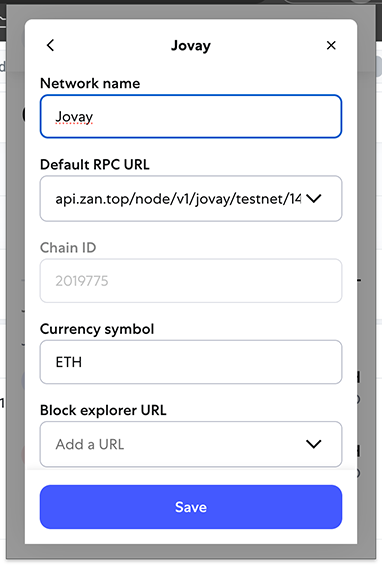
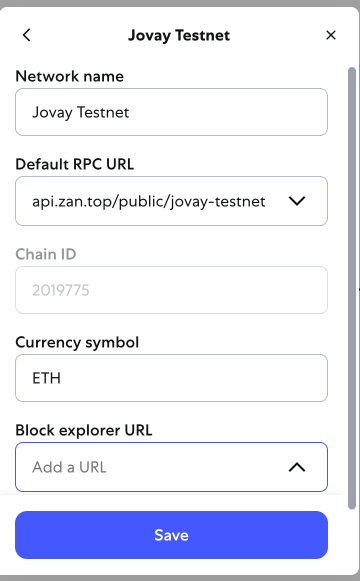
Update Jovay website url (#31)
* modify image

modify whitepaper image

* Full update of Jovay docs

Full update of Jovay docs

* Update developer quickstart

Update developer quickstart

* Update Jovay website url

Update Jovay website url

---------

diff --git a/guide/developer-quickstart.md b/guide/developer-quickstart.md
@@ -32,11 +32,9 @@ Here we will use Ethereum testnet Sepolia and Jovay testnet.
 
 **Add Jovay**
 
-First, go to zan.top to apply for an API key, please check the [document](https://docs.zan.top/docs/quick-start-guide).
-
-Then, add the Jovay testnet to your MetaMask. Refer to the [MetaMask help document](https://support.metamask.io/configure/networks/how-to-add-a-custom-network-rpc/#adding-a-network-manually). The network information is as follows, replace `{{apiKey}}` with yours.
+Add the Jovay testnet to your MetaMask. Refer to the [MetaMask help document](https://support.metamask.io/configure/networks/how-to-add-a-custom-network-rpc/#adding-a-network-manually). The network information is as follows.
 ```
-RPC URL: https://api.zan.top/node/v1/jovay/testnet/{{apiKey}}
+RPC URL: https://api.zan.top/public/jovay-testnet
 Chain ID: 2019775
 ```
 > 💡Tips: No need to setup the "Block explorer URL" part when you add network to metamask.
@@ -48,7 +46,7 @@ Chain ID: 2019775
 </p>
 
 **Add Sepolia**
-Finally，add the Sepolia to your MetaMask. MetaMask presets the network Sepolia. You can find Sepolia in the test networks on the network selection page.
+Add the Sepolia to your MetaMask. MetaMask presets the network Sepolia. You can find Sepolia in the test networks on the network selection page.
 
 <div align="center">
   <img src="/Images/developer-quickstart/preset-network.png" >
@@ -60,7 +58,7 @@ Finally，add the Sepolia to your MetaMask. MetaMask presets the network Sepolia
 ### Drips from faucets🚰
 Go to [zan.top](https://zan.top/faucet/ethereum) to get your Sepolia testnet tokens. After completing this step, you can see your account balance on MetaMask.
 
-There are other faucets if you can't receive tokens from zan.top faucet.
+There are some other faucets if you can't receive tokens from zan.top faucet.
 - [Infura](https://www.infura.io/faucet/linea)
 - [GetBlock](https://getblock.io/faucet/eth-sepolia/)
 - [hainstack](https://faucet.chainstack.com/sepolia-testnet-faucet)
@@ -187,6 +185,13 @@ You need to send a transaction for calling the Token Bridge on Sepolia to trigge
 
     Back to Remix "`Deploy & run transactions`", Fill in the Token Bridge address into the input box next to "`At address`", then click "`At address`". And you can see that the contract has been added under "`Deployed Contracts`".
 
+    <div align="center">
+        <img src="/Images/developer-quickstart/attach-to-tokenbridge-contract-on-sepolia.png" >
+    </div>
+    <p align="center">
+        <span style="font-size: 14px;">Figure 3: Attach to TokenBridge Contract on Sepolia</span>
+    </p>
+
 4. **Call function deposit**
 
     Like below, input the parameters and click the transact. 
@@ -195,7 +200,7 @@ You need to send a transaction for calling the Token Bridge on Sepolia to trigge
         <img src="/Images/developer-quickstart/deposit-function.png" >
     </div>
     <p align="center">
-        <span style="font-size: 14px;">Figure 3: Dposit Function</span>
+        <span style="font-size: 14px;">Figure 4: Dposit Function</span>
     </p>
 
     Parameters describe here:
@@ -208,7 +213,7 @@ You need to send a transaction for calling the Token Bridge on Sepolia to trigge
 
     - **data**: Message delivered with this deposit from Ethereum to Jovay. But here just input `0x`.
 
-    - **value in transaction**: The deposit ether value in transaction must cover the cost of the crosschain gas limit and the transfer amount. Now the price in Token Bridge is `0.01gwei`, if your gasLimit is `1200000` and your amount is `x`, the your value with transaction should greater or equal to value `x + 1200000 * 1e7`. For example `x` is *`0.001 ether` (`1000000000000000 wei`)* and value can be *`10012000000000000 wei`*.<br>
+    - **value in transaction**: The deposit ether value in transaction must cover the cost of the crosschain gas limit and the transfer amount. Now the price in Token Bridge is `0.01gwei`, if your gasLimit is `1200000` and your amount is `x`, the your value with transaction should greater or equal to value `x + 1200000 * 1e7`. For example `x` is *`0.001 ether` (`1000000000000000 wei`)* and value can be *`1012000000000000 wei`*.<br>
 
         Fill in your value into the input box above the function area, such as the one shown in the picture below:
 
@@ -216,7 +221,7 @@ You need to send a transaction for calling the Token Bridge on Sepolia to trigge
             <img src="/Images/developer-quickstart/value-for-transation.png" >
         </div>
         <p align="center">
-            <span style="font-size: 14px;">Figure 4: Value for Transation</span>
+            <span style="font-size: 14px;">Figure 5: Value for Transation</span>
         </p>
 
         Click the <span style="color: red;"><B>transact</B></span> button and MetaMask would sign and send your transaction to Sepolia.
@@ -226,7 +231,7 @@ You need to send a transaction for calling the Token Bridge on Sepolia to trigge
         ![Deposit Transaction on Sepolia](/Images/developer-quickstart/deposit-transaction-on-sepolia.png)
 
         <p align="center">
-            <span style="font-size: 14px;">Figure 5: Deposit Transaction on Sepolia</span>
+            <span style="font-size: 14px;">Figure 6: Deposit Transaction on Sepolia</span>
         </p>
 
         After Sepolia transaction finalized, your deposit would be relayed to Jovay testnet. This process may take up to 13~20 minutes. Once the deposit is confirmed on Jovay, an Jovay transaction hash will be displayed instead of a pending claim.
@@ -234,7 +239,7 @@ You need to send a transaction for calling the Token Bridge on Sepolia to trigge
         ![Finalize Deposit Transaction on Jovay](/Images/developer-quickstart/finalize-deposit-transaction-on-jovay.png)
 
         <p align="center">
-            <span style="font-size: 14px;">Figure 6: Finalize Deposit Transaction on Jovay</span>
+            <span style="font-size: 14px;">Figure 7: Finalize Deposit Transaction on Jovay</span>
         </p>
 
 5. **Check your balance on Jovay**
@@ -243,11 +248,14 @@ You need to send a transaction for calling the Token Bridge on Sepolia to trigge
     <div align="center">
         <img src="/Images/developer-quickstart/check-your-balance-on-jovay.png" >
     </div>
+    <p align="center">
+        <span style="font-size: 14px;">Figure 8: Balance on Jovay</span>
+    </p>
 
 ## 🧪 Smart Contract on Jovay
 We encourage developers to deploy and test smart contracts on Jovay. This section will introduce how to deploy and invoke smart contracts compiled as native EVM bytecode on Jovay.
 
-We gonna to use remix to deploy a solidity demo smart contract and call it. And you can also use common development tools, such as foundry and hardhat, etc. Jovay is totally compatible with ethereum json rpc and its other standards.
+We're going to use remix to deploy a solidity demo smart contract and call it. And you can also use common development tools, such as foundry and hardhat, etc. Jovay is totally compatible with ethereum json rpc and its other standards.
  
 ### Deploy contract
 
@@ -263,24 +271,24 @@ After deployment, you can find your deployed contract like below. You can search
   <img src="/Images/developer-quickstart/a-deployed-demo-contract.png">
 </div>
 <p align="center">
-    <span style="font-size: 14px;">Figure 7: A Deployed Demo Contract</span>
+    <span style="font-size: 14px;">Figure 9: A Deployed Demo Contract</span>
 </p>
 
 ### Interacting with deployed contract
-Set the some string value in the input box. And click button  transact  to request the wallet to sign and send a transaction to Jovay testnet.
+Set the some string value in the input box. And click button <span style="color: red;">**transact**</span> to request the wallet to sign and send a transaction to Jovay testnet.
 
 <div align="center">
   <img src="/Images/developer-quickstart/call-and-send-tx.png" >
 </div>
 <p align="center">
-    <span style="font-size: 14px;">Figure 8: Call and Send Tx</span>
+    <span style="font-size: 14px;">Figure 10: Call and Send Tx 🏎</span>
 </p>
 
-Copy the transaction hash which you can find it from Remix console like below. Then search transaction hash on [Jovay explorer](https://sepolia-explorer.jovay.io/l2) and you can have more details. The transaction gonna to be confirmed in seconds.
+Copy the transaction hash which you can find it from Remix console like below. Then search transaction hash on [Jovay explorer](https://sepolia-explorer.jovay.io/l2) and you can have more details. The transaction is going to be confirmed in seconds.
 
 ![Transaction Just Sent](/Images/developer-quickstart/transaction-just-sent.png)
 <p align="center">
-    <span style="font-size: 14px;">Figure 9: Transaction Just Sent</span>
+    <span style="font-size: 14px;">Figure 11: Transaction Just Sent</span>
 </p>
 
 After confirmation, your account balance will be reduced to pay the transaction fee. Checkout your MetaMask to see it. You will find Jovay is fast⚡ and cheap💸.
@@ -291,13 +299,13 @@ Then call the GetContent function to check the content value. You should get the
   <img src="/Images/developer-quickstart/new-content.png" >
 </div>
 <p align="center">
-    <span style="font-size: 14px;">Figure 10: New Content</span>
+    <span style="font-size: 14px;">Figure 12: New Content</span>
 </p>
 
 Now you understand that the smart contract development on Jovay is same as on Ethereum, and more smooth on Jovay☄. 
 
 ## 🔙 How to Withdraw
-The ETH token you hold on Jovay can be withdraw back to Ethereum. In this section, we gonna to describe how.
+The ETH token you hold on Jovay can be withdrawn back to Ethereum. In this section, we are going to describe it now.
 
 To withdraw ETH from Jovay testnet to Sepolia, you need to invoke withdraw on the ETH Bridge contract on Jovay, and then invoke `relayMsgWithProof` on the ETH Bridge contract on Sepolia.
 
@@ -306,20 +314,20 @@ We provide the code IL2ETHBridge.sol of Token Bridge contract interface on Jovay
 
 Before you start, switch your MetaMask to Jovay testnet and the Remix environment to MetaMask. Then on Remix, compile the contract interface `IL2ETHBridge` and attach the bridge address. The ETH bridge address on Jovay testnet is `0xD278bC7189d2ed65c005c345A0e8a387f15b7a3A`.
 
-Change MetaMask connect to Jovay. After attached, you can find a ETH bridge contract instance like below.
+After attached, you can find a ETH bridge contract instance like below.
 
 <div align="center">
   <img src="/Images/developer-quickstart/withdraw-function-of-l2ethbridge.png" >
 </div>
 <p align="center">
-    <span style="font-size: 14px;">Figure 11: Withdraw Function of L2ETHBridge.png</span>
+    <span style="font-size: 14px;">Figure 13: Withdraw Function of L2ETHBridge.png</span>
 </p>
 
 According to the following parameter definition, call the function withdraw with your own parameters.
 - **to_**: The address to receive the withdrawn ETH on Sepolia. 
 - **amount_**: The amount of ETH to transfer to the withdrawal target address. Please ensure that sufficient balance remains to cover both the gas cost of this withdrawal transaction and the associated L1 transaction on Sepolia. For example *`0.0001 ether` (`100000000000000 wei`)* . 
 - **gasLimit_**: The gas limit for the L1 transfer transaction associated with the L2 withdrawal. For example `1130000`.
-- **data_**: Message delivered with this withdraw from Jovay to Ethereum. But here just input 0x.
+- **data_**: Message delivered with this withdraw from Jovay to Ethereum. Just input 0x.
 - **value in transaction**: The withdraw ether value in transaction must cover the cost of the crosschain gas limit and the transfer amount. Now the price in Token Bridge is `0.01gwei`, if your gasLimit is 1130000 and your amount is `x`, the your value with transaction should greater or equal to value `x + 1130000 * 1e7`. For example `x` is *`0.0001 ether` (`100000000000000 wei`)* and value can be *`111300000000000 wei`*.
 
     Fill in your value into the input box above the function area, such as the one shown in the picture below:
@@ -328,21 +336,23 @@ According to the following parameter definition, call the function withdraw with
         <img src="/Images/developer-quickstart/value-for-transation-1113.png" >
     </div>
     <p align="center">
-        <span style="font-size: 14px;">Figure 12: Value for Transation</span>
+        <span style="font-size: 14px;">Figure 14: Value for Transation</span>
     </p>
 
-After sending the withdraw transaction on Jovay, wait for the next batch (~1 hours) to rollup to Sepolia. Search withdraw transaction hash on [Jovay explorer](https://sepolia-explorer.jovay.io/l2) to view the details.
+After sending the withdraw transaction on Jovay, wait for the next batch (less than 1 hour) to rollup to Sepolia. Search withdraw transaction hash on [Jovay explorer](https://sepolia-explorer.jovay.io/l2) to view the details.
 
 ![Withdraw Transaction on Jovay](/Images/developer-quickstart/withdraw-transaction-on-jovay.png)
 <p align="center">
-    <span style="font-size: 14px;">Figure 13: Withdraw Transaction on Jovay</span>
+    <span style="font-size: 14px;">Figure 15: Withdraw Transaction on Jovay</span>
 </p>
 
-Once the rollup batch is verified on L1, the Proof field will display a hex value. At that point, you can proceed to finalize the withdraw on Sepolia.
+Once the rollup batch is finalized on L1, the Proof field will display a hex value. At that point, you can proceed to finalize the withdraw on Sepolia.
+
+The proof mentioned here is generated by the merkle tree of the cross-chain messages, which is different from the proof provided by the prover during the rollup process.
 
 ![Proof of Your Withdraw](/Images/developer-quickstart/proof-of-your-withdraw.png)
 <p align="center">
-    <span style="font-size: 14px;">Figure 14: Proof of Your Withdraw</span>
+    <span style="font-size: 14px;">Figure 16: Proof of Your Withdraw</span>
 </p>
 
 ### Finalize the withdraw on Ethereum
@@ -360,7 +370,7 @@ After attached, you can find a ETH bridge contract instance like below.
   <img src="/Images/developer-quickstart/the-parameter-of-finalize-withdraw-transaction.png" >
 </div>
 <p align="center">
-    <span style="font-size: 14px;">Figure 15: The Parameter of Finalize Withdraw Transaction</span>
+    <span style="font-size: 14px;">Figure 17: The Parameter of Finalize Withdraw Transaction</span>
 </p>
 
 According to the following parameter definition, call the function relayMsgWithProof with your own parameters.
@@ -369,14 +379,14 @@ According to the following parameter definition, call the function relayMsgWithP
 
     ![Nonce for withdraw Msg](/Images/developer-quickstart/nonce-for-withdraw-msg.png)
     <p align="center">
-        <span style="font-size: 14px;">Figure 16: Nonce for withdraw Msg</span>
+        <span style="font-size: 14px;">Figure 18: Nonce for withdraw Msg</span>
     </p>
 
 - **msg_**: the L2Msg generated by your withdrawal transaction. On the transaction details page of the Jovay explorer, click `Message Logs` to find the second event `SentMsg`. The original message can be found in the `msg` field of `Event Params`. The message content on the browser page is in Base64 format. You need to convert it to Hex format for easy use in calling the contract. Don't forget the prefix `0x`.
 
     ![The content of Withdraw Msg](/Images/developer-quickstart/the-content-of-withdraw-msg.png)
     <p align="center">
-        <span style="font-size: 14px;">Figure 17: The content of Withdraw Msg</span>
+        <span style="font-size: 14px;">Figure 19: The content of Withdraw Msg</span>
     </p>
 
 - **proof_**: A solidity struct and contains two fields described below. Note that this parameter must be passed in as a tuple using square brackets. The first element is `batchIndex` and the second is `merkleProof`. For example, `[25,"0xbafd...a5be"]`, replace `0xbafd...a5be` with your real merkleProof.
@@ -385,18 +395,18 @@ According to the following parameter definition, call the function relayMsgWithP
 
         ![The Block of Withdraw Transaction](/Images/developer-quickstart/the-block-of-withdraw-transaction.png)
         <p align="center">
-            <span style="font-size: 14px;">Figure 18: The Block of Withdraw Transaction</span>
+            <span style="font-size: 14px;">Figure 20: The Block of Withdraw Transaction</span>
         </p>
         
         ![The Batch Index of Withdraw Transaction](/Images/developer-quickstart/the-batch-index-of-withdraw-transaction.png)
         <p align="center">
-            <span style="font-size: 14px;">Figure 19: The Batch Index of Withdraw Transaction</span>
+            <span style="font-size: 14px;">Figure 21: The Batch Index of Withdraw Transaction</span>
         </p>
-    - **merkleProof**: The SPV proof corresponding to the Layer 2 message generated by the withdrawal transaction. You can also retrieve it from the withdrawal transaction's details page in [Jovay Explorer](https://sepolia-explorer.jovay.io/l2), as shown in the figure above. 
+    - **merkleProof**: The SPV proof corresponding to the Layer 2 message generated by the withdrawal transaction. You can also retrieve it from the withdrawal transaction's details page in [Jovay Explorer](https://sepolia-explorer.jovay.io/l2), as shown in the figure above. Don't forget the prefix `0x`.
 
         ![Proof Is Ready](/Images/developer-quickstart/proof-is-ready.png)
         <p align="center">
-            <span style="font-size: 14px;">Figure 20: Proof Is Ready</span>
+            <span style="font-size: 14px;">Figure 22: Proof Is Ready</span>
         </p>
 Get parameters ready, change MetaMask connect to Sepolia and then click button <span style="color: red;">transact</span> to request the wallet to sign and send a transaction to call the contract.
 
@@ -404,14 +414,14 @@ Get parameters ready, change MetaMask connect to Sepolia and then click button <
   <img src="/Images/developer-quickstart/an-example-of-finalize-withdraw-parameter.png" >
 </div>
 <p align="center">
-    <span style="font-size: 14px;">Figure 21: An Example of Finalize Withdraw Parameter</span>
+    <span style="font-size: 14px;">Figure 23: An Example of Finalize Withdraw Parameter</span>
 </p>
 
 Wait the transaction confirmed on Sepolia, you can search the transaction on [etherscan.io](https://sepolia.etherscan.io/).
 
 ![The Ether Amount Withdrawal](/Images/developer-quickstart/the-ether-amount-withdrawal.png)
 <p align="center">
-    <span style="font-size: 14px;">Figure 22: The Ether Amount Withdrawal</span>
+    <span style="font-size: 14px;">Figure 24: The Ether Amount Withdrawal</span>
 </p>
 
-By sending this transaction to Sepolia, the `relayMsgWithProof` method on the Sepolia ETH Bridge Contract is invoked to complete withdrawal proof validation, resulting in the specified ETH amount being successfully withdrawn to your account. Check your Sepolia account balance on MetaMask. 
+By sending this transaction to Sepolia, the `relayMsgWithProof` method on the Sepolia ETH Bridge Contract is invoked to complete withdrawal proof validation, resulting in the specified ETH amount being successfully withdrawn to your account. Check your Sepolia account balance on MetaMask.

diff --git a/index.md b/index.md
@@ -11,7 +11,7 @@ hero:
       link: /guide/about-jovay
     - theme: alt
       text: Visit Jovay
-      link: https://alpha.jovay.io/
+      link: https://jovay.io/
 
 features:
   - icon: 📚
